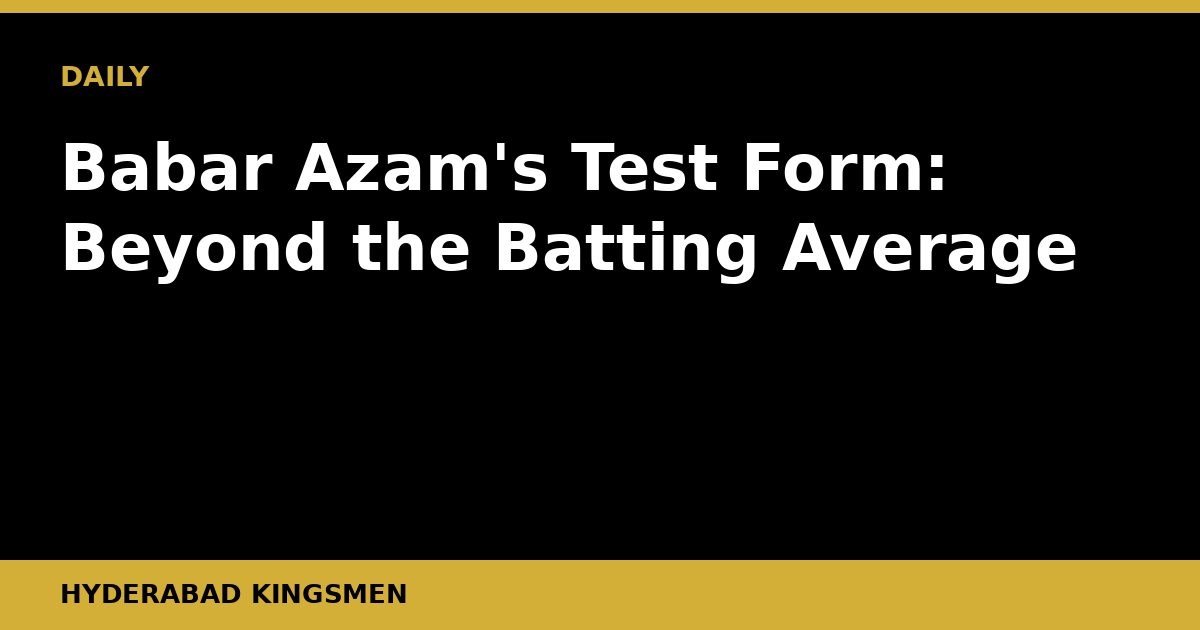
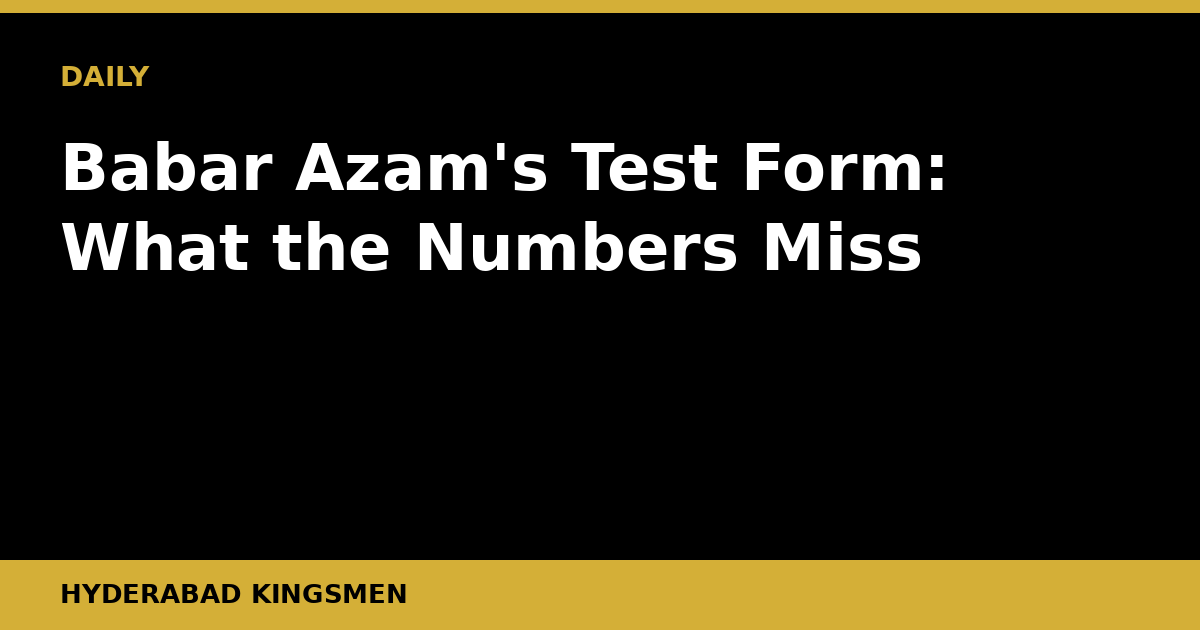
Daily post 2026-10-15

Changed region(s): [[0.0308, 0.3317, 0.8942, 0.4524]]

diff --git a/content/posts/babar-azam-test-form-analysis-beyond-the-average.md b/content/posts/babar-azam-test-form-analysis-beyond-the-average.md
@@ -1,45 +1,43 @@
 ---
-title: "Babar Azam's Test Form: Beyond the Batting Average"
+title: "Babar Azam's Test Form: What the Numbers Miss"
 slug: "babar-azam-test-form-analysis-beyond-the-average"
-date: "2026-09-09T05:38:26+05:00"
+date: "2026-10-15T05:26:34+05:00"
 draft: false
-description: "Babar Azam's Test average still looks respectable on paper, but a deeper read of the numbers reveals a batter navigating a prolonged crisis of conversion and intent."
+description: "Babar Azam's Test average still looks respectable on paper, but a closer reading of his recent innings tells a more complicated story about Pakistan's batting linchpin."
 banner: "/banners/babar-azam-test-form-analysis-beyond-the-average.png"
 kicker: "ANALYSIS"
 author: "Hyderabad Kingsmen"
 translationKey: "babar-azam-test-form-analysis-beyond-the-average"
-tags: ["pakistan-cricket", "babar-azam", "test-cricket", "batting-analysis", "pakistan-test-team", "wtc"]
+tags: ["pakistan-cricket", "babar-azam", "test-cricket", "batting-analysis", "pakistan-test-team", "cricket-statistics"]
 categories: ["Analysis"]
 ---
 
-## The Surface Looks Fine. Dig Deeper and It Does Not.
+Babar Azam's name still sits near the top of Pakistan's Test batting averages, but averages, as any serious follower of the game knows, are the most comfortable lie in cricket statistics. The real story of Babar's recent Test form is not what the aggregate says. It is what the individual innings reveal about a player who may be navigating the most searching phase of his red-ball career.
 
-Babar Azam remains Pakistan's most recognised cricketer, the name opposition camps prepare hardest for. Yet in Test cricket, the format that defines a batter's legacy above all others, his recent numbers are quietly telling a different story from the one his reputation promises.
+## The Angle: Starts That Go Nowhere
 
-## The Angle: Starts Without Scores
+The pattern that has emerged in Babar's recent Test cricket is one of accumulation without conversion. He gets in. He looks the part. The cover drive is as clean as ever, the balance at the crease is textbook, the footwork against pace appears unhurried. And then, somewhere between thirty and fifty, something goes wrong. A loose drive outside off stump. An edge to slip off a ball he should have left. A dismissal that triggers that familiar sinking feeling among Pakistan's dressing room and its supporters.
 
-The average is the first number fans and selectors reach for, and Babar's career Test average of around 45 still carries weight. But averages are the most forgiving of statistics. They do not tell you *when* the runs came, how they came, or what happened after a promising start.
+Getting to thirty in Test cricket is genuinely difficult. Converting those starts into scores that change the course of a match is the separator between a good player and a great one. For a batsman of Babar's calibre and reputation, the ratio of half-centuries to hundreds in his recent Test innings has tilted in the wrong direction. When Pakistan most need a player to anchor an innings for a session and a half, or to bat the opposition out of a game, those innings have not consistently arrived.
 
-That is where the concern lives. Over roughly the last 18 months to two years of Test cricket, Babar has been getting in, regularly. He sees off the new ball, he plays his signature cover drives, he settles. And then he gets out in the thirties and forties with a frequency that should alarm any serious analyst. The conversion rate from fifty to hundred has dropped sharply in this period. Fifties are not small things, but in Test cricket a batter of Babar's calibre is expected to turn good starts into match-defining innings. That is not happening often enough.
+The concern is not just stylistic. Pakistan's Test batting order depends heavily on Babar to set a tempo that others can follow. When he falls in the thirties and forties, the middle order arrives under immediate pressure. Younger batsmen like Saud Shakeel or the recalled Kamran Ghulam are capable, but they are not yet positioned to absorb the psychological weight that a big Babar innings would remove from their shoulders.
 
-Beyond conversions, there is the question of scoring rate under pressure. In several recent series, including home Tests against England and tours of Australia and New Zealand, Babar showed a tendency to anchor without accelerating. His strike rate in the thirties and forties of an innings dropped to levels that placed enormous pressure on the partners coming in below him. A batter occupying the crease without accelerating through a difficult phase can actually slow a team's momentum rather than build it.
+## What the Raw Average Hides
 
-## The Technical and Mental Dimension
+A career Test average above forty looks solid. But averages are shaped by the past, sometimes by innings played in conditions that favoured batsmen, sometimes against attacks that were less potent. The question any honest assessment must ask is: what has the average looked like over the last twelve to eighteen months of Test cricket, in the specific conditions and against the specific attacks Pakistan has faced?
 
-Coaches and commentators have pointed to a specific technical vulnerability: the ball angled in sharply, either seaming off the pitch or arriving full from left-arm pace. Babar has been dismissed playing across the line or playing for shape that does not arrive more times than his earlier career record would have predicted. Whether this is a correctable technical flaw or a decision-making problem under match pressure is the key question.
+When you strip away the context-free career aggregate and focus on recent series, a trend of starts-without-substance becomes harder to dismiss as variance. A batsman going through a rough patch produces the odd failure but also the redeeming big score. What raises genuine concern is when the failures take a consistent shape, the same mode of dismissal, the same phase of the innings, the same hesitancy at a moment that previously he would have managed on instinct.
 
-The mental side is equally worth examining. Babar captained Pakistan across formats for years, and the weight of that role, combined with public criticism during lean patches, likely affected his batting freedom. Players who carry institutional responsibility sometimes describe getting into a position where every innings feels like a test of their right to be there. Since stepping back from the captaincy, there were expectations of a liberated Babar, a batter playing purely. The dividends have been modest in Test cricket at least.
+There is also the question of intent. Some critics have pointed to a perceived caution in Babar's recent Test batting, a reluctance to impose himself on an innings in the manner that a Babar Azam in full flow once did almost reflexively. Whether that reflects the weight of captaincy lingering even after his return from the leadership role, or simply a technical adjustment gone slightly wrong, is worth watching carefully.
 
 ## What It Means Going Forward
 
-For Pakistan's Test prospects, Babar's form matters enormously. The middle order has been a revolving door for years, which means the batters above and below Babar are often either untested or out of form themselves. When Babar goes cheaply or gets a start and does not convert, the innings frequently does not recover. He is not just a batter in the lineup, he is the structural spine.
+For Pakistan's Test future, the stakes around Babar's form are high. The team faces demanding red-ball assignments, and a top-order centred around a Babar who consistently converts starts would transform Pakistan's competitiveness in away conditions. A Babar who keeps falling in the forties is still a useful player, but not the transformative match-winner this Pakistan side needs him to be.
 
-The upcoming Test calendar, including fixtures that will carry ICC World Test Championship implications, will demand exactly what has been missing: big hundreds, contributions in the fourth innings, and the ability to bat through difficult sessions rather than just survive them. Pakistan's WTC aspirations are fragile enough without their premier batter operating at 70 percent of his potential.
+The technical fix, if there is one, is likely straightforward enough for a player of his gifts. The mental recalibration may be slightly more involved. Babar has spoken before about wanting to simplify his approach, and that instinct is correct. Overthinking at the crease tends to produce exactly the kind of tentative dismissals that have become a feature of this lean phase.
 
-There is also a younger generation watching. Saud Shakeel has staked a genuine claim at Test level with his temperament and technique. Kamran Ghulam has pushed hard for consistent selection. If Babar does not convert starts into match-winning knocks, the conversation about his position in the lineup, unthinkable even three years ago, will become unavoidable.
+There is no reason to panic. Babar Azam at any level of form is still worth his place in Pakistan's Test XI. But 'worth his place' should not be the ceiling for a player once ranked among the best in the world across all formats.
 
 ## What to Watch Next
 
-The next Test series Pakistan play will be as much about Babar as it is about team results. Watch specifically for three things: whether he converts his inevitable fifties into hundreds, how he responds to left-arm pace angled into the stumps, and whether he imposes himself in the third and fourth innings of matches rather than playing safe. A score of 120 in a winning cause would do more for Pakistan cricket than five scores of 45 combined.
-
-The talent has never been in question. The output, in the format that matters most, needs to match it again.
+The next Test series Pakistan play should be viewed as a decisive audition for Babar's ability to recapture his red-ball best. Watch specifically for how he bats between overs thirty and sixty of Pakistan's innings, when the ball is older and the field is up. That is where his recent form has frayed. That is also where he can most decisively prove his critics wrong.
